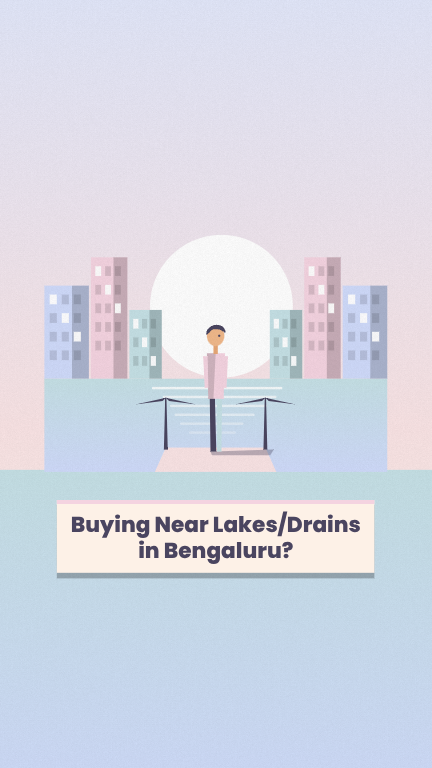
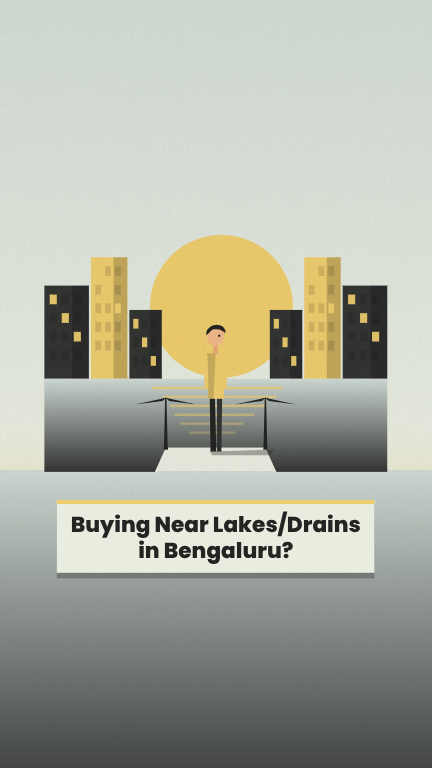
Switch to sage, ivory, gold and charcoal palette
Claude-Session: https://claude.ai/code/session_01XyZ5pH9ZcEEzWKJyb5d1cn

diff --git a/video/src/Main.tsx b/video/src/Main.tsx
@@ -1,6 +1,6 @@
 import React from 'react';
 import {AbsoluteFill, Audio, Img, Sequence, interpolate, spring, staticFile, useCurrentFrame} from 'remotion';
-import {C, Defs, Grain, P, Palm, Person, Pine, Ripples, SERIF, Tower} from './art';
+import {C, Defs, Grain, P, isDark, Palm, Person, Pine, Ripples, SERIF, Tower} from './art';
 import {ASSETS} from './assets';
 
 const FPS = 30;
@@ -57,8 +57,8 @@ const Tracker: React.FC = () => {
       {SECTIONS.map((x) => {
         const p = interpolate(t, [x.from, x.to], [0, 1], clamp);
         return (
-          <div key={x.key} style={{width: 200, height: 12, background: 'rgba(74,69,96,.15)'}}>
-            <div style={{width: `${p * 100}%`, height: '100%', background: P.navy}} />
+          <div key={x.key} style={{width: 200, height: 12, background: 'rgba(140,140,135,.35)'}}>
+            <div style={{width: `${p * 100}%`, height: '100%', background: P.orange}} />
           </div>
         );
       })}
@@ -102,17 +102,17 @@ const TitleCard: React.FC<{color: string; lines?: string[]; checks?: boolean}> =
         <circle cx={540} cy={980 - f * 2} r={420} fill="#fff" opacity=".08" />
       </svg>
       <div style={{position: 'absolute', left: 116, top: 410, width: 847, height: 1134, display: 'flex', flexDirection: 'column', alignItems: 'center', justifyContent: 'center', transform: `translateY(${(1 - p) * 60}px)`}}>
-        <div style={{width: 140, height: 8, background: P.navy, marginBottom: 40}} />
-        {lines && <div style={{fontFamily: SERIF, fontWeight: 800, fontSize: 84, lineHeight: 1.1, color: P.navy, textAlign: 'center'}}>{lines.map((l) => <div key={l} style={{whiteSpace: 'nowrap'}}>{l}</div>)}</div>}
+        <div style={{width: 140, height: 8, background: isDark(color) ? P.cream : P.navy, marginBottom: 40}} />
+        {lines && <div style={{fontFamily: SERIF, fontWeight: 800, fontSize: 84, lineHeight: 1.1, color: isDark(color) ? P.cream : P.navy, textAlign: 'center'}}>{lines.map((l) => <div key={l} style={{whiteSpace: 'nowrap'}}>{l}</div>)}</div>}
         {checks && (
           <svg width="640" height="220" viewBox="0 0 640 220">
             {[0, 1, 2].map((i) => {
               const q = spring({frame: f - 6 - i * 6, fps: FPS, config: {damping: 10}});
-              return <g key={i} transform={`translate(${110 + i * 210},110) scale(${q})`}><circle r="90" fill={P.cream} /><path d="M-40,0 L-10,32 L44,-30" stroke={P.navy} strokeWidth="20" fill="none" strokeLinecap="round" strokeLinejoin="round" /></g>;
+              return <g key={i} transform={`translate(${110 + i * 210},110) scale(${q})`}><circle r="90" fill={P.cream} /><path d="M-40,0 L-10,32 L44,-30" stroke={P.orange} strokeWidth="20" fill="none" strokeLinecap="round" strokeLinejoin="round" /></g>;
             })}
           </svg>
         )}
-        <div style={{width: 140, height: 8, background: P.navy, marginTop: 40}} />
+        <div style={{width: 140, height: 8, background: isDark(color) ? P.cream : P.navy, marginTop: 40}} />
       </div>
       <Grain f={f} />
     </AbsoluteFill>
@@ -159,7 +159,7 @@ const BgFlat: React.FC<{c: string; f: number}> = ({c, f}) => (
   <svg width="1160" height="2000">
     <rect width="1160" height="2000" fill={c} />
     <circle cx={580 + Math.sin(f / 80) * 120} cy={700} r={360} fill="#fff" opacity=".05" />
-    <circle cx={580 - Math.sin(f / 90) * 140} cy={1600} r={440} fill="#fff" opacity=".3" />
+    <circle cx={580 - Math.sin(f / 90) * 140} cy={1600} r={440} fill="#fff" opacity=".05" />
   </svg>
 );
 

diff --git a/video/src/art.tsx b/video/src/art.tsx
@@ -1,27 +1,29 @@
 import React from 'react';
 import {loadFont} from '@remotion/google-fonts/Poppins';
 
-// pastel palette from the reference swatches; navy is the one dark ink kept for text and outlines
+// palette from the reference swatches: sage, ivory, gold, charcoal, graphite (key names kept from earlier palettes)
 export const P = {
-  navy: '#4A4560',
-  deep: '#C5E0E5',
-  teal: '#CFDAFA',
-  sea: '#C5E0E5',
-  mist: '#E4ECE9',
-  orange: '#F4D3E0',
-  rust: '#F4D3E0',
-  peach: '#F9E3E4',
-  cream: '#FDF1E7',
-  sun: '#FFFFFF',
-  mustard: '#E0E7FB',
+  navy: '#242423',
+  deep: '#333533',
+  teal: '#333533',
+  sea: '#D1DBD5',
+  mist: '#E9EDE0',
+  orange: '#EECD6E',
+  rust: '#EECD6E',
+  peach: '#E9EDE0',
+  cream: '#E9EDE0',
+  sun: '#EECD6E',
+  mustard: '#EECD6E',
 };
 
 export const C = {
-  rules: '#C5E0E5',
-  risk: '#F4D3E0',
-  case: '#F4D3E0',
-  checks: '#CFDAFA',
+  rules: '#D1DBD5',
+  risk: '#EECD6E',
+  case: '#EECD6E',
+  checks: '#333533',
 };
+
+export const isDark = (c: string) => c === '#242423' || c === '#333533';
 
 const {fontFamily} = loadFont('normal', {weights: ['500', '700', '800'], subsets: ['latin', 'devanagari']});
 export const SERIF = fontFamily;
@@ -30,13 +32,13 @@ export const SANS = fontFamily;
 export const Defs: React.FC = () => (
   <defs>
     <linearGradient id="dusk" x1="0" y1="0" x2="0" y2="1">
-      <stop offset="0" stopColor="#E0E7FB" /><stop offset=".55" stopColor="#F9E3E4" /><stop offset="1" stopColor="#FDF1E7" />
+      <stop offset="0" stopColor="#D1DBD5" /><stop offset=".55" stopColor="#E9EDE0" /><stop offset="1" stopColor="#EECD6E" />
     </linearGradient>
     <linearGradient id="night" x1="0" y1="0" x2="0" y2="1">
-      <stop offset="0" stopColor="#E9E4E9" /><stop offset="1" stopColor={P.teal} />
+      <stop offset="0" stopColor={P.navy} /><stop offset="1" stopColor={P.deep} />
     </linearGradient>
     <linearGradient id="water" x1="0" y1="0" x2="0" y2="1">
-      <stop offset="0" stopColor={P.sea} /><stop offset="1" stopColor="#CFDAFA" />
+      <stop offset="0" stopColor={P.sea} /><stop offset="1" stopColor={P.deep} />
     </linearGradient>
     <linearGradient id="glow" x1="0" y1="0" x2="0" y2="1">
       <stop offset="0" stopColor={P.orange} stopOpacity=".9" /><stop offset="1" stopColor={P.orange} stopOpacity="0" />
